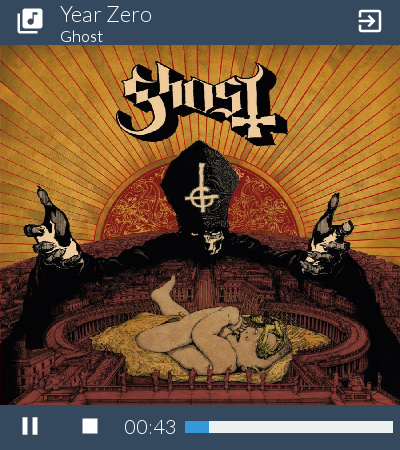
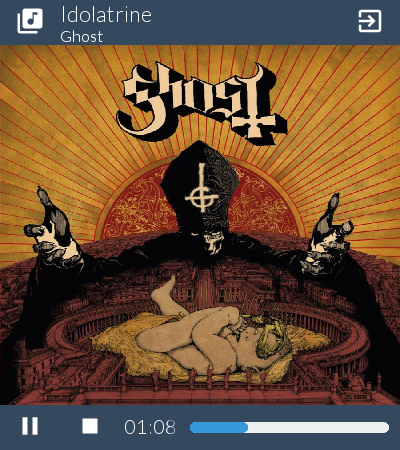
Galley example, text input

diff --git a/antlia/antlia.py b/antlia/antlia.py
@@ -154,6 +154,10 @@ class Antlia:
 		# QUIT event
 		if event.type == sdl2.SDL_QUIT:
 			self.user.want_to_stop = True
+		elif event.type == sdl2.SDL_TEXTINPUT:
+			# Fire a text event to all elements
+			for el in self.layout_elements:
+				el.onTextInput(event.text.text.decode())
 		# MOUSE MOTION events
 		elif event.type == sdl2.SDL_MOUSEMOTION:
 			# Local mouse coordonates
@@ -168,14 +172,14 @@ class Antlia:
 			global_Y = gY.contents.value
 
 			# Get the hovered elements
-			current_indices = self._findHoveredElements(X, Y)
+			current_hovered = self._findHoveredElements(X, Y)
 
 			# Look for draggable elements
 			if self.mouse.left_click:
 				dx = 0; dy = 0
 				need_moving = False
-				for i in current_indices:
-					el = self.layout_elements[i]
+				for h in current_hovered:
+					el = self.layout_elements[h[0]]
 
 					if toBoolean(el.getAttribute("drag-window")):
 						dx = global_X - self.mouse.global_X
@@ -188,24 +192,39 @@ class Antlia:
 
 			# Look for the elements that are now hovered,
 			# and those who are no more
-			new_indices = [i for i in current_indices if i not in self.hovered_indices]
-			old_indices = [i for i in self.hovered_indices if i not in current_indices]
+			new_hovered = [x for x in current_hovered if x[0] not in self.hovered_indices]
+			old_indices = []
+			for o in self.hovered_indices:
+				still = False
+				for n in current_hovered:
+					if n[0] == o:
+						# Still hovered
+						still = True
+						break
+				if not still:
+					old_indices.append(o)
 
 			# Fire hover handlers
-			for i in new_indices:
-				el = self.layout_elements[i]
+			for h in new_hovered:
+				new_index = h[0]
+				el = self.layout_elements[new_index]
 				self._callHandler(el.name, "hover")
-				el.onHover()
+
+				# Pass local coordinates too
+				el.onHover(h[1], h[2])
 
 				# Need to be rebuilt
-				el_indices_to_rebuild.append(i)
-			for i in old_indices:
-				self.layout_elements[i].onOut()
+				el_indices_to_rebuild.append(new_index)
+			for h in old_indices:
+				self.layout_elements[o].onOut()
 
 				# Need to be rebuilt
-				el_indices_to_rebuild.append(i)
+				el_indices_to_rebuild.append(o)
 
-			self.hovered_indices = current_indices
+			# Update hovered indices
+			self.hovered_indices = []
+			for h in current_hovered:
+				self.hovered_indices.append(h[0])
 
 			# Update mouse position
 			self.mouse.X = X
@@ -258,7 +277,7 @@ class Antlia:
 		hovered_indices = []
 		for i, rect in enumerate(self.layout_rects):
 			if rect.isOver(X, Y):
-				hovered_indices.append(i)
+				hovered_indices.append((i, X - rect.x, Y - rect.y))
 
 		return hovered_indices
 

diff --git a/antlia/blueprint/text.py b/antlia/blueprint/text.py
@@ -12,28 +12,26 @@ class Text(Primitive):
 		self.size = int(size)
 		self.align = align
 
-		# Add font to the font manager
-		text_font_id = font_manager.addFont(font_path, self.size)
-		self.text_font = font_manager.getFont(text_font_id)
-		icon_font_id = font_manager.addFont("icons", self.size)
-		self.icon_font = font_manager.getFont(icon_font_id)
+		# Test if icon
+		icon = re.compile(r'#(.+)#')
+
+		s = icon.search(self.text)
+		if s is not None:
+			# Icon found !
+			icon_name = s.group(1)
+			self.text = NAME_TO_UNICODE[icon_name]
+
+			# Add font to the font manager
+			self.font_id = font_manager.addFont("icons", self.size)
+		else:
+			self.font_id = font_manager.addFont(font_path, self.size)
+		self.font = font_manager.getFont(self.font_id)
 
 	def build(self, renderer, rect, color):
 		if self.text != "":
-			# Test if icon
-			icon = re.compile(r'#(.+)#')
-
-			s = icon.search(self.text)
-			if s is not None:
-				# Icon found !
-				icon_name = s.group(1)
-				self.text = NAME_TO_UNICODE[icon_name]
-
-				font = self.icon_font
-			else:
-				font = self.text_font
-
-			textSurface = sdl2ttf.TTF_RenderUTF8_Blended(font, self.text.encode(), sdl2.SDL_Color(*color), sdl2.SDL_Color(52,73,94,255))
+			textSurface = sdl2ttf.TTF_RenderUTF8_Blended(self.font, self.text.encode(),
+														sdl2.SDL_Color(*color),
+														sdl2.SDL_Color(52,73,94,255))
 			errors = sdl2ttf.TTF_GetError()
 			if errors:
 				print("Text", errors)
@@ -57,6 +55,9 @@ class Text(Primitive):
 	def draw(self, renderer):
 		if self.text != "":
 			sdl2.SDL_RenderCopy(renderer, self.textTexture, None, self.abs_rect)
+
+	def getFontId(self):
+		return self.font_id
 
 	def destroy(self):
 		if self.text != "":

diff --git a/antlia/elements/textinput.py b/antlia/elements/textinput.py
@@ -5,20 +5,22 @@ from .element import Element
 from .color import Color, lighthen
 from .const import *
 
-class Label(Element):
+class TextInput(Element):
 	def __init__(self, name):
-		super(Label, self).__init__(name)
+		super(TextInput, self).__init__(name)
 		# Specific to the Button element
 		self.attributes = {
-			"label": name,
-			"drag-window": False,
+			"placeholder": name,
+			"align": "left",
 			"background-color": "none",
 			"font": "lato-light",
 			"text-color": "white",
-			"text-align": "left",
 			"text-size": 12,
 			"padding": "0px"
 		}
+
+		# State of the input
+		self.state = ACTIVE # TODO
 
 	def build(self, renderer, rect):
 		self._clearBlueprint()
@@ -37,16 +39,22 @@ class Label(Element):
 			self.blueprint.append(R)
 
 		x = 0.0
-		if self.attributes["text-align"] == "center":
+		if self.attributes["align"] == "center":
 			x = 0.5
-		elif self.attributes["text-align"] == "right":
+		elif self.attributes["align"] == "right":
 			x = 1.0
 		T = Text(x, 0.5,
 				self.attributes["label"],
 				self.attributes["font"],
 				self.attributes["text-size"],
-				align=self.attributes["text-align"])
-
+				align=self.attributes["align"])
 		T.build(renderer, text_rect, colors["text-color"])
-		# print(font_manager.getGlyphFromChar(T.getFontId(), "H").advance)
 		self.blueprint.append(T)
+
+	def onHover(self, local_x, local_y):
+		print(local_x, local_y)
+		print(font_manager.getGlyphFromChar(T.getFontId(), "H").advance)
+
+	def onTextInput(self, text):
+		if self.state == ACTIVE:
+			print(text)

diff --git a/examples/gallery.py b/examples/gallery.py
@@ -1,0 +1,30 @@
+import sys, os
+sys.path.insert(1, os.path.join(sys.path[0], '..'))
+
+from antlia import *
+import time as ti
+import urllib.request
+
+# Create a GUI based on a layout file and a style file
+GUI = Antlia("examples/gallery_layout", "examples/gallery_style")
+
+# Bind the handlers to the buttons
+# GUI.bind("open-file_button", "click", openClickHandler)
+# GUI.bind("quit_button", "click", quitClickHandler)
+#
+# GUI.bind("play-pause_button", "click", playPauseClickHandler)
+# GUI.bind("stop_button", "click", stopClickHandler)
+
+# Open the GUI
+GUI.start()
+
+# urllib.request.urlretrieve("https://source.unsplash.com/200x200/?nature,water", "examples/gallery_pics/water_1.jpg")
+
+# Main loop, wait for stop event
+while not GUI.getUserInfo().want_to_stop:
+
+	# Give some rest to the CPU
+	ti.sleep(0.1)
+
+# Destroy the GUI properly
+GUI.quit()

diff --git a/antlia/parser.py b/antlia/parser.py
@@ -26,6 +26,11 @@ class Parser:
 			log(ERROR, "Layout file does not exist", "Import a valid .lia file")
 			exit(1)
 
+		# Check if style file exist
+		if style_file_name is not None and not os.path.exists(style_file_name + ".lia"):
+			log(ERROR, "Style file does not exist", "Import a valid .lia file")
+			exit(1)
+
 		# Transform the user defined layout in array of elements
 		self._buildLayout(layout_file_name, style_file_name)
 

diff --git a/antlia/elements/image.py b/antlia/elements/image.py
@@ -16,6 +16,7 @@ class Image(Element):
 		self._clearBlueprint()
 
 		# Bluid blueprint
-		I = Picture(self.attributes["source"], self.attributes["adjust"])
-		I.build(renderer, rect, None)
-		self.blueprint.append(I)
+		if self.attributes["source"] != "":
+			I = Picture(self.attributes["source"], self.attributes["adjust"])
+			I.build(renderer, rect, None)
+			self.blueprint.append(I)

diff --git a/examples/musicplayer.py b/examples/musicplayer.py
@@ -114,7 +114,7 @@ while not GUI.getUserInfo().want_to_stop and is_running:
 
 		GUI.change("time_label", "label", elapsed)
 		GUI.change("time_progress", "completed",
-					int(sec_passed / duration * 100))
+					float(sec_passed) / duration * 100.0)
 
 	# Give some rest to the CPU
 	ti.sleep(0.1)

diff --git a/antlia/elements/color.py b/antlia/elements/color.py
@@ -9,6 +9,8 @@ Color = {
 	"asbestos": (127,140,141,255),
 	"peter-river": (52,152,219,255),
 	"belize-hole": (41,128,185,255),
+	"emerald": (46,204,113,255),
+	"nephritis": (39,174,96,255),
 	"white": (255,255,255,255),
 	"dark-grey": (52,52,52,52),
 	"black": (0,0,0,255),

diff --git a/antlia/font.py b/antlia/font.py
@@ -60,7 +60,7 @@ class FontManager:
 		self.font_id += 1
 		return self.font_id - 1
 
-	def getGlyph(self, font_id, character):
+	def getGlyphFromChar(self, font_id, character):
 		return self.font_table[font_id][1].get(character)
 
 	def getFont(self, font_id):

diff --git a/antlia/elements/element.py b/antlia/elements/element.py
@@ -49,10 +49,13 @@ class Element:
 	def onRelease(self):
 		pass
 
-	def onHover(self):
+	def onHover(self, local_x, local_y):
 		pass
 
 	def onOut(self):
+		pass
+
+	def onTextInput(self, text):
 		pass
 
 	def setAttribute(self, att, value):

diff --git a/antlia/renderer.py b/antlia/renderer.py
@@ -132,6 +132,8 @@ class Renderer:
 
 	def _loopForEvents(self):
 		event = sdl2.SDL_Event()
+
+		sdl2.SDL_StartTextInput()
 		while self.is_running:
 			# Look at the event queue
 			while sdl2.SDL_PollEvent(ctypes.byref(event)) != 0:

diff --git a/antlia/elements/progress.py b/antlia/elements/progress.py
@@ -34,7 +34,7 @@ class Progress(Element):
 		width = rect.w
 
 		t, typ_, err = toArrayOfSizes(self.attributes["thickness"])
-		if typ_ == "px":
+		if typ_[0] == "px":
 			thickness = t[0]
 		else:
 			thickness = int(t[0] * height)
